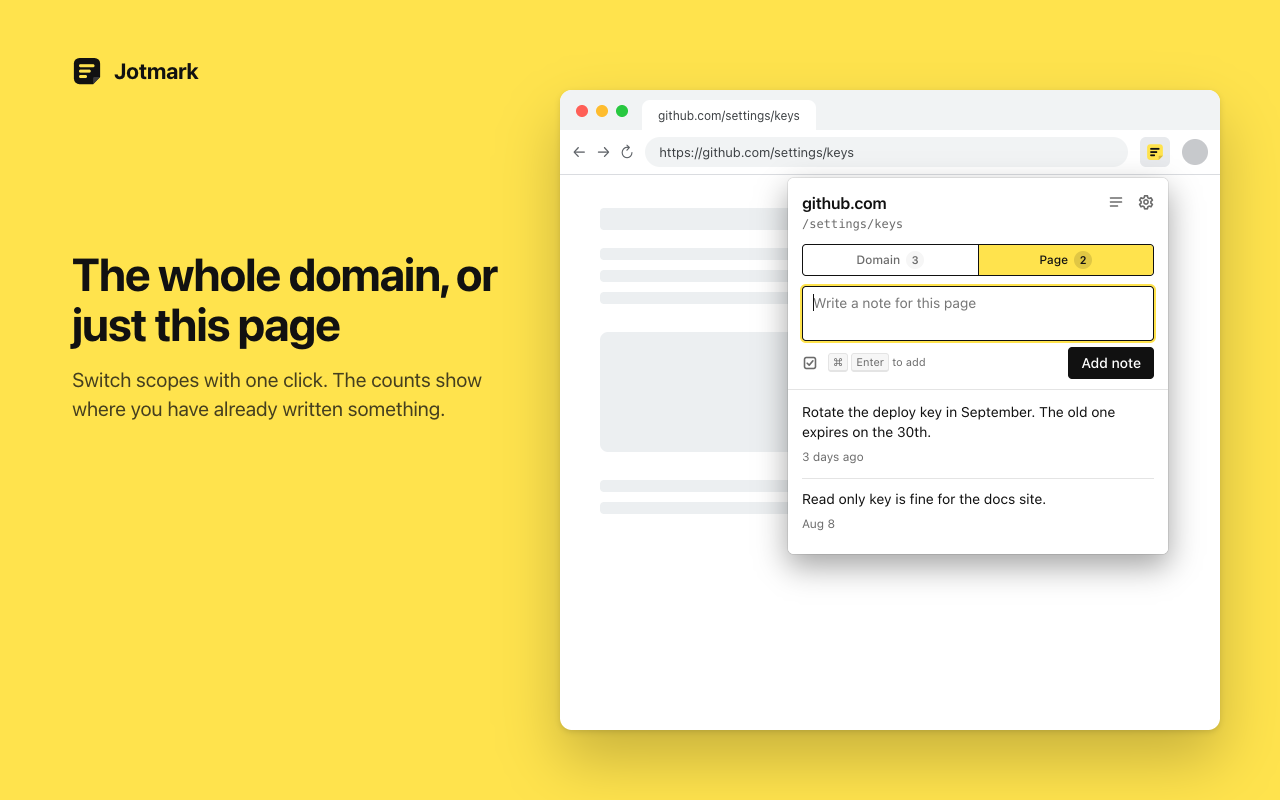
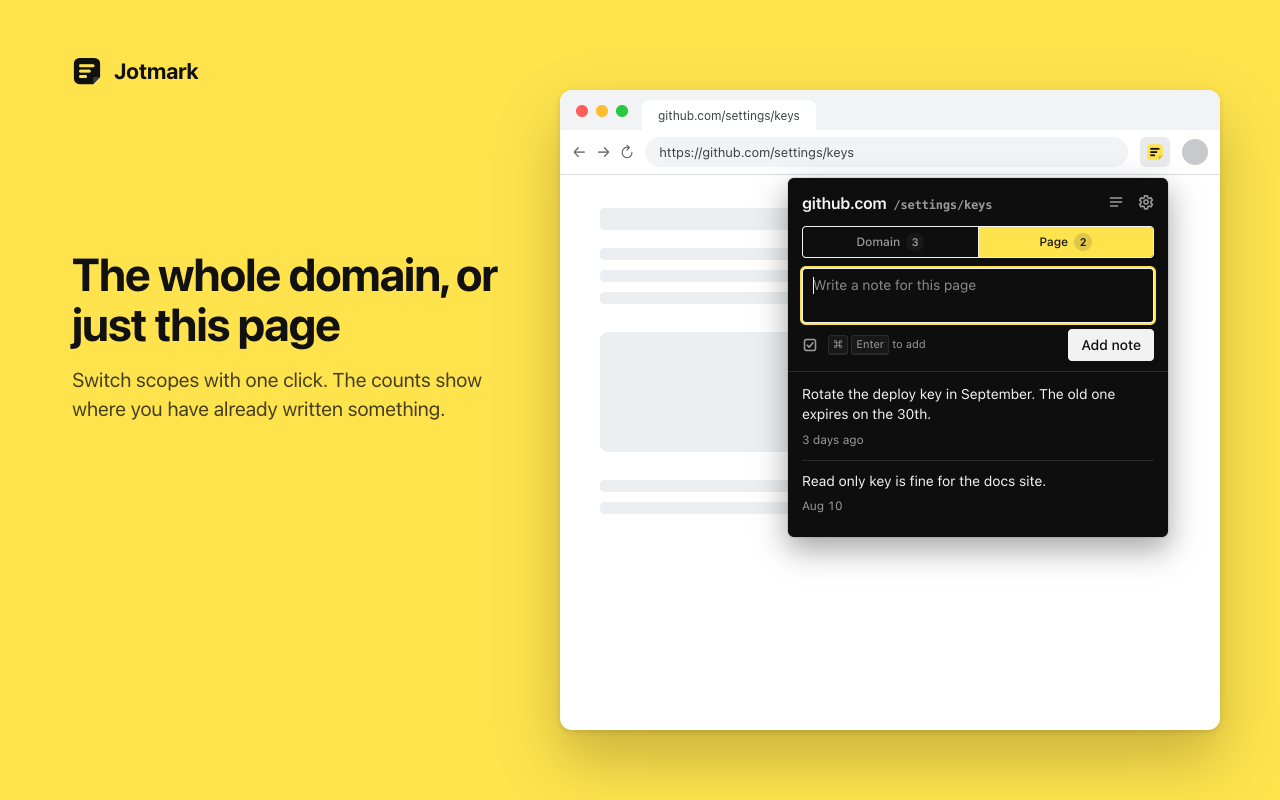
bump version to 0.1.1 and refresh the store screenshots

Changed region(s): [[0.5938, 0.2188, 0.9375, 0.7188]]

diff --git a/CHANGELOG.md b/CHANGELOG.md
@@ -4,6 +4,10 @@ All notable changes to Jotmark are listed here. The format follows Keep a Change
 
 ## Unreleased
 
+## 0.1.1 (2026-08-19)
+
+- The page path now sits next to the domain on one line in the popup header, so the scope switch and composer no longer move up and down when switching between domain and page.
+
 ## 0.1.0 (2026-08-17)
 
 First release.
